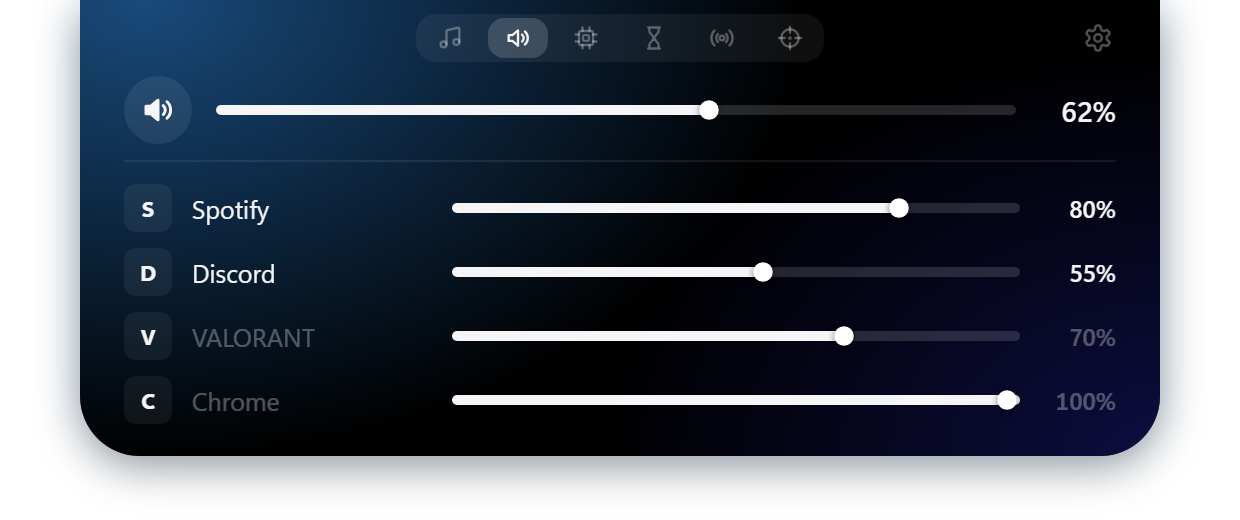
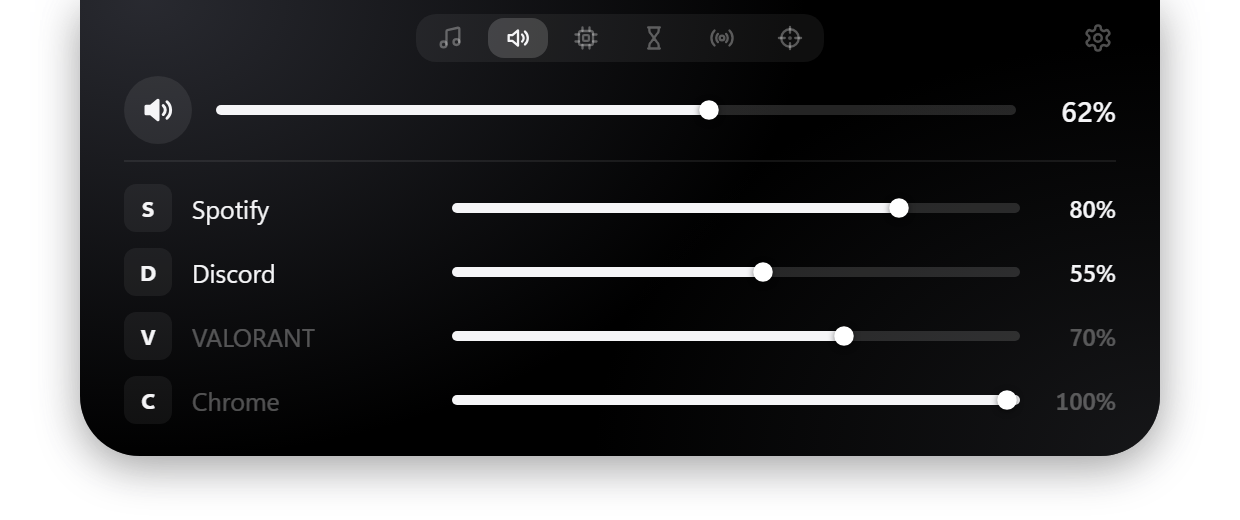
Nouveau thème prune (palette #190019 → #F8E4D8)
Couleurs du site, pochette de la démo et captures refaites.

Changed region(s): [[0.0613, 0.0, 0.4903, 0.6154], [0.7661, 0.5846, 0.95, 0.8923]]

diff --git a/site.css b/site.css
@@ -1,14 +1,20 @@
 :root {
-  --bg: #05070d;
-  --bg2: #0b0f1a;
-  --card: rgba(255, 255, 255, 0.045);
-  --line: rgba(255, 255, 255, 0.09);
-  --text: #eef2f8;
-  --dim: #a3adbf;
-  --faint: #6b7588;
-  --a1: #2ee6d6;
-  --a2: #3b82f6;
-  --grad: linear-gradient(120deg, var(--a1), var(--a2));
+  /* palette: #190019 #2B124C #522B5B #854F6C #DFB6B2 #F8E4D8 */
+  --bg: #190019;
+  --bg2: #2b124c;
+  --plum: #522b5b;
+  --mauve: #854f6c;
+  --blush: #dfb6b2;
+  --cream: #f8e4d8;
+  --card: rgba(82, 43, 91, 0.28);
+  --line: rgba(223, 182, 178, 0.14);
+  --text: var(--cream);
+  --dim: rgba(248, 228, 216, 0.74);
+  --faint: #b48b98;
+  --ink: #190019;                 /* text on light buttons */
+  --a1: var(--blush);
+  --a2: var(--mauve);
+  --grad: linear-gradient(120deg, var(--cream), var(--blush) 45%, #c48e98);
   --radius: 18px;
   --ease: cubic-bezier(0.2, 0.8, 0.2, 1);
 }
@@ -32,12 +38,12 @@ svg { fill: none; stroke: currentColor; stroke-width: 1.8; stroke-linecap: round
   position: sticky; top: 0; z-index: 10;
   display: flex; align-items: center; gap: 28px;
   padding: 14px max(16px, calc((100vw - 1120px) / 2));
-  background: rgba(5, 7, 13, 0.72);
+  background: rgba(25, 0, 25, 0.75);
   backdrop-filter: blur(14px);
   border-bottom: 1px solid var(--line);
 }
 .brand { display: inline-flex; align-items: center; gap: 9px; font-weight: 700; font-size: 18px; letter-spacing: -0.01em; }
-.dot { width: 12px; height: 12px; border-radius: 50%; background: var(--grad); box-shadow: 0 0 14px rgba(46, 230, 214, 0.6); }
+.dot { width: 12px; height: 12px; border-radius: 50%; background: var(--grad); box-shadow: 0 0 14px rgba(223, 182, 178, 0.6); }
 .top nav { display: flex; gap: 22px; margin-left: auto; font-size: 14px; color: var(--dim); }
 .top nav a:hover { color: var(--text); }
 
@@ -45,34 +51,34 @@ svg { fill: none; stroke: currentColor; stroke-width: 1.8; stroke-linecap: round
 .btn {
   display: inline-flex; align-items: center; gap: 10px;
   height: 48px; padding: 0 22px; border-radius: 14px;
-  background: var(--grad); color: #04121a; font-weight: 650; font-size: 15px;
-  box-shadow: 0 8px 30px -8px rgba(46, 200, 230, 0.55);
+  background: var(--grad); color: var(--ink); font-weight: 650; font-size: 15px;
+  box-shadow: 0 8px 30px -8px rgba(223, 182, 178, 0.45);
   transition: transform 0.2s var(--ease), box-shadow 0.2s var(--ease), filter 0.2s;
 }
-.btn:hover { transform: translateY(-2px); box-shadow: 0 14px 36px -10px rgba(46, 200, 230, 0.7); }
+.btn:hover { transform: translateY(-2px); box-shadow: 0 14px 36px -10px rgba(223, 182, 178, 0.6); }
 .btn svg { width: 18px; height: 18px; stroke-width: 2.4; }
 .btn.small { height: 36px; padding: 0 16px; font-size: 13.5px; border-radius: 11px; }
 .btn.ghost { background: var(--card); color: var(--text); border: 1px solid var(--line); box-shadow: none; }
-.btn.ghost:hover { background: rgba(255, 255, 255, 0.08); }
+.btn.ghost:hover { background: rgba(133, 79, 108, 0.35); }
 
 /* ---------- hero ---------- */
 .hero { padding: 40px 16px 30px; max-width: 1152px; margin: 0 auto; }
 .screen {
   position: relative; height: 420px; border-radius: 26px; overflow: hidden;
   border: 1px solid var(--line);
-  box-shadow: 0 40px 120px -40px rgba(46, 140, 230, 0.45);
+  box-shadow: 0 40px 120px -40px rgba(133, 79, 108, 0.6);
 }
 .wall {
   position: absolute; inset: 0;
   background:
-    radial-gradient(60% 80% at 20% 100%, rgba(46, 230, 214, 0.55), transparent 60%),
-    radial-gradient(50% 70% at 85% 90%, rgba(59, 130, 246, 0.6), transparent 60%),
-    radial-gradient(40% 50% at 60% 20%, rgba(124, 58, 237, 0.35), transparent 70%),
-    linear-gradient(180deg, #0a1426, #071a2c 60%, #08293a);
+    radial-gradient(60% 80% at 18% 100%, rgba(223, 182, 178, 0.42), transparent 60%),
+    radial-gradient(55% 75% at 85% 95%, rgba(133, 79, 108, 0.75), transparent 62%),
+    radial-gradient(45% 55% at 60% 18%, rgba(82, 43, 91, 0.7), transparent 70%),
+    linear-gradient(180deg, #190019, #2b124c 65%, #3c1d55);
 }
 .wall::after { /* soft water lines */
   content: ""; position: absolute; inset: 0;
-  background: repeating-linear-gradient(170deg, rgba(255, 255, 255, 0.035) 0 2px, transparent 2px 28px);
+  background: repeating-linear-gradient(170deg, rgba(248, 228, 216, 0.04) 0 2px, transparent 2px 28px);
   mask-image: linear-gradient(180deg, transparent 35%, #000);
 }
 .demo-wrap { position: absolute; top: 0; left: 50%; width: 620px; height: 260px; transform: translateX(-50%) scale(var(--s, 1)); transform-origin: top center; }
@@ -89,7 +95,7 @@ svg { fill: none; stroke: currentColor; stroke-width: 1.8; stroke-linecap: round
 .hero-text { text-align: center; padding: 56px 0 20px; }
 h1 {
   font-size: clamp(38px, 6.4vw, 72px); line-height: 1.04; letter-spacing: -0.035em; font-weight: 750;
-  background: linear-gradient(180deg, #fff 30%, #9fb3cf); -webkit-background-clip: text; background-clip: text; color: transparent;
+  background: linear-gradient(180deg, var(--cream) 35%, var(--blush)); -webkit-background-clip: text; background-clip: text; color: transparent;
 }
 .lead { max-width: 640px; margin: 22px auto 0; font-size: clamp(16px, 2vw, 18.5px); color: var(--dim); }
 .cta { display: flex; gap: 12px; justify-content: center; flex-wrap: wrap; margin-top: 32px; }
@@ -107,8 +113,8 @@ h2 { font-size: clamp(28px, 4vw, 42px); letter-spacing: -0.03em; line-height: 1.
   padding: 22px; border-radius: var(--radius); background: var(--card); border: 1px solid var(--line);
   transition: transform 0.25s var(--ease), border-color 0.25s, background 0.25s;
 }
-.f:hover { transform: translateY(-3px); border-color: rgba(46, 230, 214, 0.35); background: rgba(255, 255, 255, 0.06); }
-.f svg { width: 34px; height: 34px; padding: 7px; border-radius: 10px; color: var(--a1); background: rgba(46, 230, 214, 0.1); }
+.f:hover { transform: translateY(-3px); border-color: rgba(223, 182, 178, 0.35); background: rgba(82, 43, 91, 0.42); }
+.f svg { width: 34px; height: 34px; padding: 7px; border-radius: 10px; color: var(--blush); background: rgba(223, 182, 178, 0.12); }
 .f h3 { font-size: 16.5px; margin: 14px 0 6px; letter-spacing: -0.01em; }
 .f p { font-size: 14px; color: var(--dim); }
 
@@ -116,7 +122,7 @@ h2 { font-size: clamp(28px, 4vw, 42px); letter-spacing: -0.03em; line-height: 1.
 .closed-shots { display: grid; grid-template-columns: 1fr 1fr; gap: 14px; margin-top: 40px; }
 .closed-shots figure, .g-view {
   border-radius: var(--radius); border: 1px solid var(--line);
-  background: radial-gradient(80% 120% at 50% 0%, rgba(59, 130, 246, 0.22), transparent 70%), var(--bg2);
+  background: radial-gradient(80% 120% at 50% 0%, rgba(133, 79, 108, 0.45), transparent 70%), var(--bg2);
 }
 .closed-shots figure { padding: 0 10px 14px; overflow: hidden; }
 .closed-shots img { margin: 6px auto 0; width: 100%; max-width: 350px; }
@@ -129,7 +135,7 @@ figcaption { text-align: center; font-size: 13px; color: var(--faint); }
   height: 34px; padding: 0 14px; border-radius: 10px; cursor: pointer; transition: all 0.2s var(--ease);
 }
 .g-tabs button:hover { color: var(--text); }
-.g-tabs button.on { color: #04121a; background: var(--grad); border-color: transparent; font-weight: 600; }
+.g-tabs button.on { color: var(--ink); background: var(--grad); border-color: transparent; font-weight: 600; }
 .g-view { padding: 0 16px; display: flex; justify-content: center; overflow: hidden; }
 .g-img { width: 100%; max-width: 760px; transition: opacity 0.25s var(--ease); }
 .g-img.fade { opacity: 0; }
@@ -148,7 +154,7 @@ figcaption { text-align: center; font-size: 13px; color: var(--faint); }
 .steps li { display: flex; gap: 18px; padding: 24px; border-radius: var(--radius); background: var(--card); border: 1px solid var(--line); }
 .n {
   flex: none; width: 36px; height: 36px; border-radius: 50%; display: grid; place-items: center;
-  background: var(--grad); color: #04121a; font-weight: 750;
+  background: var(--grad); color: var(--ink); font-weight: 750;
 }
 .steps h3 { font-size: 17px; margin-bottom: 4px; }
 .steps p { color: var(--dim); font-size: 14.5px; }

diff --git a/index.html b/index.html
@@ -8,7 +8,7 @@
   <meta property="og:title" content="Lagon · la barre en haut de ton écran" />
   <meta property="og:description" content="Musique et paroles, son, PC, temps d’écran, Twitch et Valorant, dans une barre qui se déploie au survol." />
   <meta property="og:image" content="img/music.png" />
-  <meta name="theme-color" content="#05070d" />
+  <meta name="theme-color" content="#190019" />
   <link rel="icon" href="favicon.ico" />
   <link rel="stylesheet" href="site.css" />
 </head>

diff --git a/demo/stub.js b/demo/stub.js
@@ -24,9 +24,9 @@
     c.width = c.height = 160;
     const g = c.getContext('2d');
     const grad = g.createLinearGradient(0, 0, 160, 160);
-    grad.addColorStop(0, '#13c4c9');
-    grad.addColorStop(0.55, '#1b6fd8');
-    grad.addColorStop(1, '#2a1f7a');
+    grad.addColorStop(0, '#dfb6b2');
+    grad.addColorStop(0.5, '#854f6c');
+    grad.addColorStop(1, '#2b124c');
     g.fillStyle = grad;
     g.fillRect(0, 0, 160, 160);
     g.fillStyle = 'rgba(255,255,255,0.85)';
